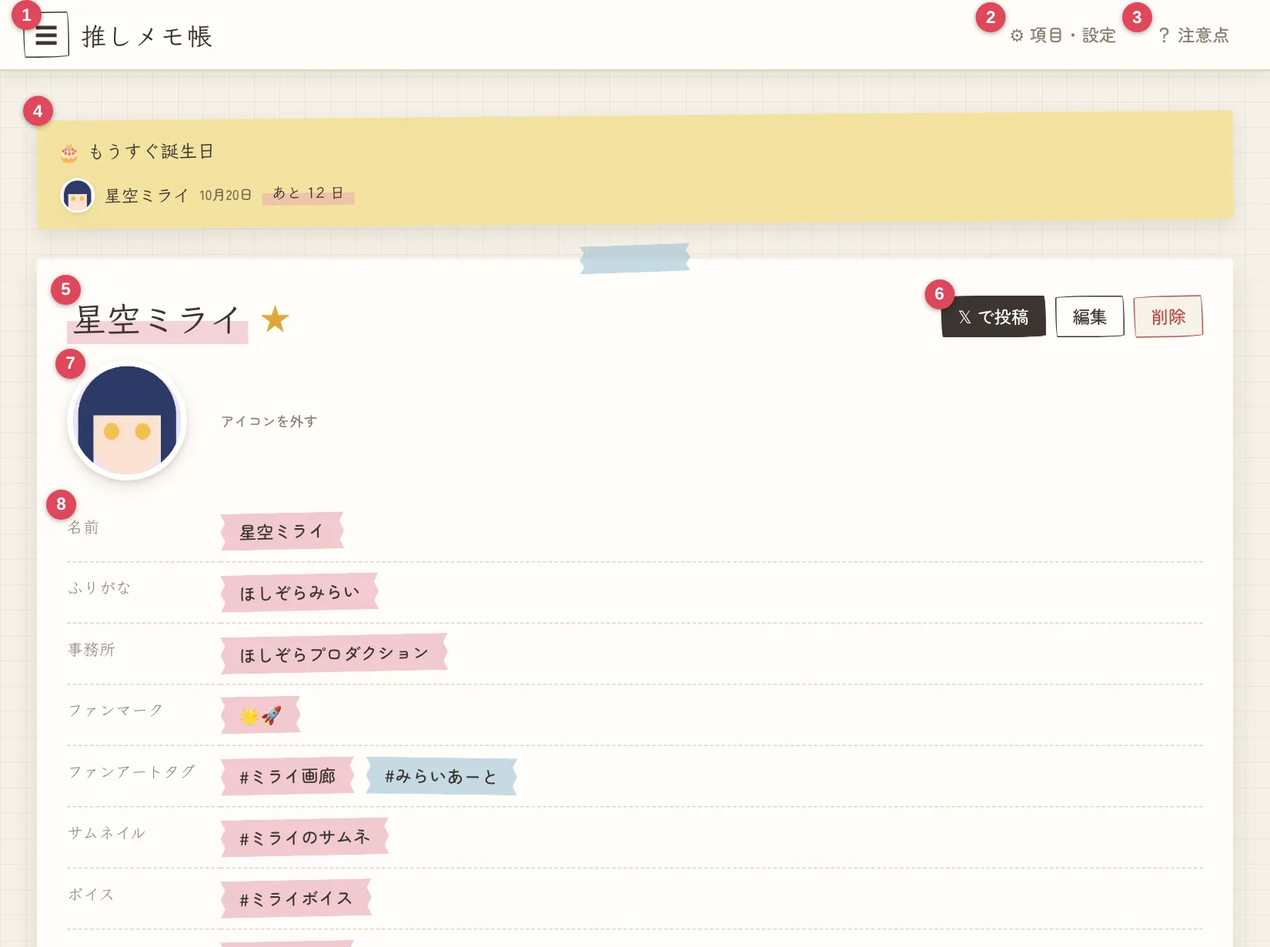
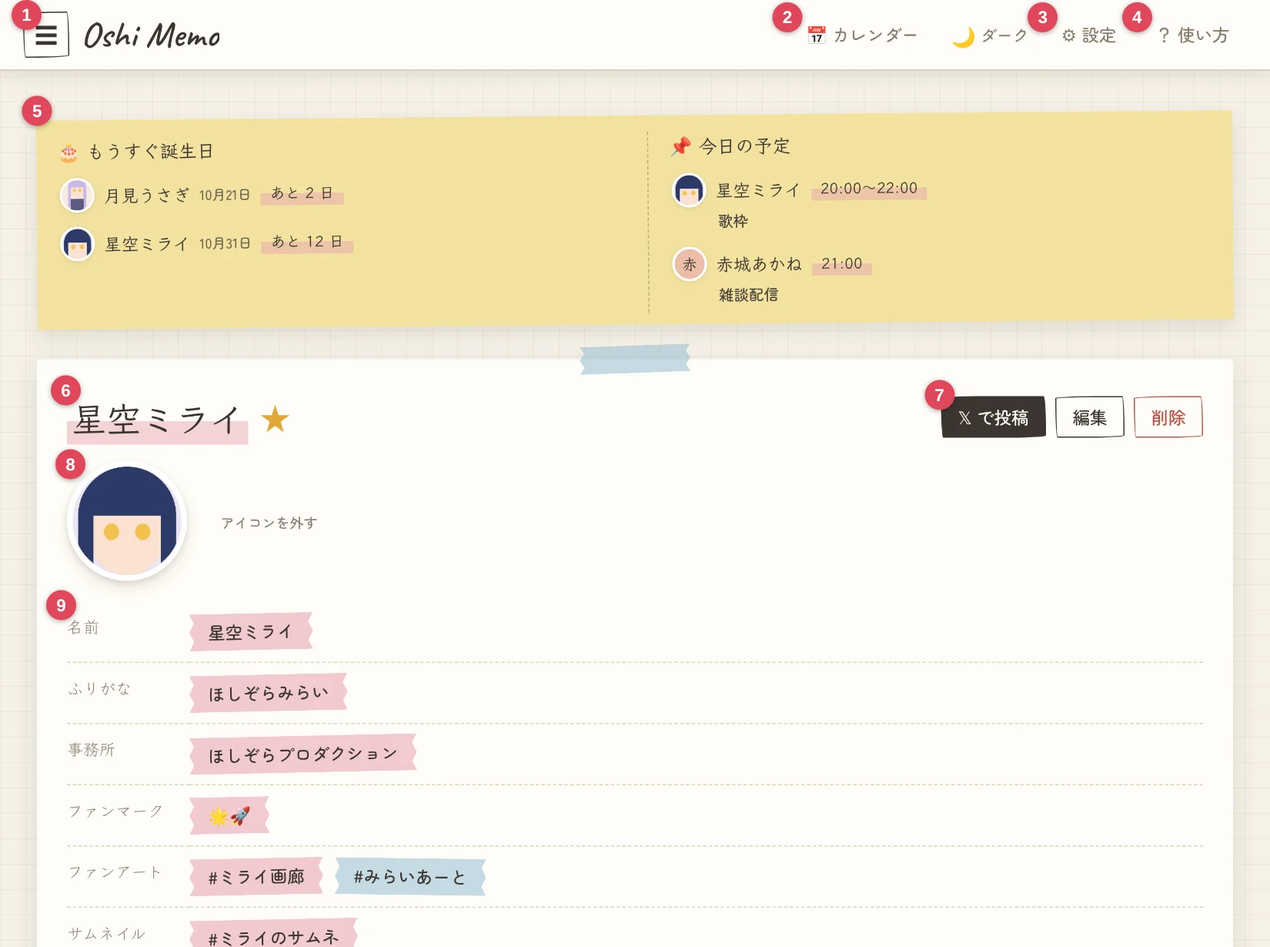
カレンダー: 期間の予定を棒で表示・予定の追加画面でタイトルを上に、マニュアルにカレンダーの章を追加、お知らせの長い名前がつぶれないように
Claude-Session: https://claude.ai/code/session_01TtRufu2XhManK9q9q8tut5

diff --git a/manual.html b/manual.html
@@ -15,7 +15,7 @@
   <script src="theme.js?v=20261019-1"></script>
   <!-- ?v=… は「バージョン番号」。アプリを更新したら数字を変えると、
        スマホなどに残っている古いファイルではなく、新しいファイルが必ず読み込まれる -->
-  <link rel="stylesheet" href="style.css?v=20261019-13">
+  <link rel="stylesheet" href="style.css?v=20261019-17">
   <!-- デザインのファイルが読み込めなくても、画像が画面からはみ出さないようにする最低限の設定 -->
   <style>
     img { max-width: 100%; height: auto; }
@@ -41,7 +41,8 @@
         <li><a href="#oshi">推しの登録・編集</a></li>
         <li><a href="#copy">コピー・メモ・色・誕生日・記念日・リンク・X 投稿</a></li>
         <li><a href="#images">画像</a></li>
-        <li><a href="#settings">項目・設定</a></li>
+        <li><a href="#calendar">カレンダー</a></li>
+        <li><a href="#settings">設定</a></li>
         <li><a href="#backup">バックアップとお引っ越し</a></li>
         <li><a href="#notes">注意点とよくある質問</a></li>
       </ol>
@@ -74,21 +75,22 @@
     <section class="card" id="screen">
       <h2>画面の見かた</h2>
       <p>推しを選ぶと、その推しのページが開きます。番号は下の表と対応しています。</p>
-      <figure><img src="manual/overview.webp" alt="推しのページ全体（番号付き）" loading="lazy"></figure>
+      <figure><img src="manual/overview.webp?v=20261019" alt="推しのページ全体（番号付き）" loading="lazy"></figure>
       <div class="table-wrap">
         <table>
           <tr><th>番号</th><th>名前</th><th>できること</th></tr>
           <tr><td>1</td><td>☰</td><td>推しリストを開く（推しの選択・検索・追加）</td></tr>
-          <tr><td>2</td><td>⚙ 項目・設定</td><td>登録項目の変更、投稿テンプレート、バックアップ（スマホでは「⚙ 設定」）</td></tr>
-          <tr><td>3</td><td>？</td><td>注意点を見る・このマニュアルを開く</td></tr>
-          <tr><td>4</td><td>もうすぐ誕生日</td><td>誕生日が 1 か月以内の推しが出る（押すとその推しのページへ）。カウントダウンにした記念日は 1 か月前から「📅 もうすぐ記念日」、当日は「🎉 今日は記念日」も出ます</td></tr>
-          <tr><td>5</td><td>名前と ★</td><td>☆ を押すとお気に入り（★）</td></tr>
-          <tr><td>6</td><td>𝕏 で投稿・編集・削除</td><td>X に投稿、登録内容の変更、推しの削除</td></tr>
-          <tr><td>7</td><td>アイコン</td><td>押すとアイコン画像を登録・変更</td></tr>
-          <tr><td>8</td><td>登録内容</td><td>マスキングテープ風のボタンを押すとコピー</td></tr>
+          <tr><td>2</td><td>📅 カレンダー</td><td>誕生日・記念日・予定のカレンダーを開く（<a href="#calendar">カレンダー</a>で説明）</td></tr>
+          <tr><td>3</td><td>⚙ 設定</td><td>登録項目の変更、投稿テンプレート、バックアップ</td></tr>
+          <tr><td>4</td><td>？ 使い方</td><td>注意点を見る・このマニュアルを開く</td></tr>
+          <tr><td>5</td><td>お知らせ</td><td>左に誕生日が 1 か月以内の推し（押すとその推しのページへ）。カウントダウンにした記念日は 1 か月前から「📅 もうすぐ記念日」、当日は「🎉 今日は記念日」も出ます。右には「📌 今日の予定」が出ます（押すとカレンダーへ）</td></tr>
+          <tr><td>6</td><td>名前と ★</td><td>☆ を押すとお気に入り（★）</td></tr>
+          <tr><td>7</td><td>𝕏 で投稿・編集・削除</td><td>X に投稿、登録内容の変更、推しの削除</td></tr>
+          <tr><td>8</td><td>アイコン</td><td>押すとアイコン画像を登録・変更</td></tr>
+          <tr><td>9</td><td>登録内容</td><td>マスキングテープ風のボタンを押すとコピー</td></tr>
         </table>
       </div>
-      <p>ページを下に進むと、メモ・色・誕生日・日付の項目（デビュー日など）・リンク、その下に画像があります。スマホでも並びは同じです。</p>
+      <p>ページを下に進むと、メモ・色・誕生日・日付の項目（デビュー日など）・予定・リンク、その下に画像があります。スマホでも並びは同じです。スマホでは上のボタンが 📅・☀/🌙・⚙ 設定・？ のように絵だけになります。</p>
     </section>
 
     <!-- 4. 推しの登録・編集 -->
@@ -155,7 +157,7 @@
       <figure><img src="manual/birthday.webp" alt="もうすぐ誕生日のお知らせ" loading="lazy"></figure>
 
       <h3>デビュー日などの記念日（日付の項目）</h3>
-      <p>「編集」→ デビュー日などの年・月・日を入れます。年は入れなくても登録できます。日付の項目は「⚙ 項目・設定」の「日付の項目」で、推し始めた日・初配信なども自由に追加できます。</p>
+      <p>「編集」→ デビュー日などの年・月・日を入れます。年は入れなくても登録できます。日付の項目は「⚙ 設定」の「日付の項目」で、推し始めた日・初配信なども自由に追加できます。</p>
       <figure><img src="manual/anniv.webp" alt="推しのページの日付の表示（経過と当日のお祝い）" loading="lazy"></figure>
       <ul>
         <li>年を入れると、その日からの経過が「(5年5ヶ月)」のように出ます</li>
@@ -169,7 +171,7 @@
       <p>「編集」→「＋ リンクを追加」で、YouTube や X などの URL をいくつでも登録できます。名前を空にすると「YouTube」「X」などが自動で付きます。推しのページで押すと、そのページが開きます。</p>
 
       <h3>X に投稿</h3>
-      <p>推しのページの「𝕏 で投稿」を押すと、投稿テンプレートの文章が入った X の投稿画面が表示されます。テンプレートが2つ以上あるときはどれで投稿するか選択できます。文章は「⚙ 項目・設定」の投稿テンプレートで変えられます。</p>
+      <p>推しのページの「𝕏 で投稿」を押すと、投稿テンプレートの文章が入った X の投稿画面が表示されます。テンプレートが2つ以上あるときはどれで投稿するか選択できます。文章は「⚙ 設定」の投稿テンプレートで変えられます。</p>
       <ul>
         <li>画像は、X の投稿画面で自分で選んでください</li>
         <li>「「ファンアート」が未登録です」と出たら、その推しのファンアートを登録してください</li>
@@ -213,11 +215,50 @@
       <figure><img src="manual/flip-gray.webp" alt="反転と白黒を ON にしたところ" loading="lazy" class="narrow"></figure>
     </section>
 
-    <!-- 7. 項目・設定 -->
+    <!-- 7. カレンダー -->
+    <section class="card" id="calendar">
+      <h2>カレンダー</h2>
+      <p>上のバーの「📅 カレンダー」（スマホでは 📅）を押すと、推しの誕生日・記念日と、自分で登録した予定をカレンダーで見られます。</p>
+      <figure><img src="manual/calendar.webp?v=20261019" alt="カレンダー（番号付き）" loading="lazy"></figure>
+      <div class="table-wrap">
+        <table>
+          <tr><th>番号</th><th>名前</th><th>できること</th></tr>
+          <tr><td>1</td><td>◀ ▶ ・ 今日</td><td>前の月・次の月へ。「今日」で今月に戻る</td></tr>
+          <tr><td>2</td><td>日付のマス</td><td>推しのアイコンと内容が出ます。アイコンの右上の 🎂 は誕生日、🎉 は記念日（デビュー日など）、📌 は予定。期間の予定は、つながった 1 本の棒で出ます。入りきらない日は「+2」のように数だけ出ます</td></tr>
+          <tr><td>3</td><td>選んだ日の一覧</td><td>日付を押すと、その日の内容が全部出ます。誕生日・記念日を押すとその推しのページへ、予定を押すと編集画面が開きます</td></tr>
+          <tr><td>4</td><td>＋ この日に予定を追加</td><td>選んでいる日の予定を追加</td></tr>
+        </table>
+      </div>
+      <p>今日の日付はピンクの丸で囲まれます。記念日は日付の項目（デビュー日など）から毎年出て、年を入れてあれば「デビュー日 3周年」のように出ます。</p>
+
+      <h3>予定を追加する</h3>
+      <p>グッズの販売日やライブなど、推しの予定を登録できます。</p>
+      <figure><img src="manual/event-add.webp?v=20261019" alt="予定を追加する画面" loading="lazy" class="narrow"></figure>
+      <ul>
+        <li><b>推し</b>：どの推しの予定かを選びます（最後に予定を入れた推しが最初から選ばれています）</li>
+        <li><b>タイトル</b>：予定の名前（例：グッズ販売、ライブ）。必ず入れます</li>
+        <li><b>終日</b>：チェックを入れると時刻の欄が消えて、日付だけの予定になります</li>
+        <li><b>開始</b>：日付と時刻（終日でないときは時刻が必要です）</li>
+        <li><b>終了</b>：入れなくても大丈夫です。終了日を入れると期間の予定（例：10/17〜10/19）になり、カレンダーには期間の分だけ伸びた棒で出ます</li>
+        <li><b>メモ</b>：なくても大丈夫です</li>
+      </ul>
+      <p>終了日が開始日より前のときや、同じ日で終了時刻が開始時刻より前のときは保存できません。登録した予定を押すと編集画面が開き、「削除」で消せます。</p>
+
+      <h3>ほかの画面とのつながり</h3>
+      <ul>
+        <li>カレンダーで誕生日・記念日を押して推しのページに移ったときは、ページの一番上の「← カレンダーに戻る」か、スマホ・ブラウザの戻る操作で、さっきのカレンダーに戻れます</li>
+        <li>推しのページの「予定」に、今日から先の予定が近い順に 3 件まで出ます。押すとその日のカレンダーが開き、「＋ 予定を追加」でその推しの予定を追加できます</li>
+        <li>予定がある日は、画面の上のお知らせの「📌 今日の予定」にも出ます（期間の予定は期間中ずっと出ます）</li>
+        <li>推しを削除すると、その推しの予定も一緒に削除されます</li>
+      </ul>
+      <figure><img src="manual/oshi-events.webp?v=20261019" alt="推しのページの予定" loading="lazy"></figure>
+    </section>
+
+    <!-- 8. 設定 -->
     <section class="card" id="settings">
-      <h2>項目・設定</h2>
-      <p>右上の「⚙ 項目・設定」（スマホでは「⚙ 設定」）で、登録する項目や投稿の文章を自由に変えられます。変えたら一番下の「保存」を押します。</p>
-      <figure><img src="manual/settings.webp" alt="項目・設定の画面（上のほう）" loading="lazy" class="narrow"></figure>
+      <h2>設定</h2>
+      <p>右上の「⚙ 設定」で、登録する項目や投稿の文章を自由に変えられます。変えたら一番下の「保存」を押します。</p>
+      <figure><img src="manual/settings.webp" alt="設定の画面（上のほう）" loading="lazy" class="narrow"></figure>
       <ul>
         <li><b>文字の項目</b>：「＋ 項目を追加」で追加、項目名を書き換えて名前の変更、✕ で削除、↑↓ で並べ替え。一番上の項目が推しリストの「見出し」になります</li>
         <li><b>日付の項目</b>：デビュー日・推し始めた日など。文字の項目と同じように追加・変更・削除できます</li>
@@ -225,7 +266,7 @@
         <li>項目を削除しても、登録してあった内容は消えません。文字の項目は 1 つ以上必要なので、全部は消せません</li>
       </ul>
       <p>下に進むと、投稿テンプレート・バックアップ・保存についてがあります。</p>
-      <figure><img src="manual/settings-bottom.webp" alt="項目・設定の画面（下のほう）" loading="lazy" class="narrow"></figure>
+      <figure><img src="manual/settings-bottom.webp" alt="設定の画面（下のほう）" loading="lazy" class="narrow"></figure>
       <ul>
         <li><b>投稿テンプレート</b>：「𝕏 で投稿」の文章です。<code>{項目名}</code> の部分にその推しの登録内容が入ります。例：<code>{名前}さんのファンアートを描きました！ {ファンアート}</code>。「＋ テンプレートを追加」で何個でも登録でき、↑↓で並べ替え、✕で削除できます</li>
         <li><b>バックアップ</b>：書き出しと読み込み（<a href="#backup">次の章</a>で説明）</li>
@@ -233,7 +274,7 @@
       </ul>
     </section>
 
-    <!-- 8. バックアップとお引っ越し -->
+    <!-- 9. バックアップとお引っ越し -->
     <section class="card" id="backup">
       <h2>バックアップとお引っ越し</h2>
       <p>データは端末の中だけにあるので、ときどきファイルに書き出しておくと安心です。最後のバックアップから 30 日たつと、画面の上にお知らせが出ます。</p>
@@ -241,10 +282,10 @@
         <table>
           <tr><th>ボタン</th><th>中身</th><th>ファイル名の例</th></tr>
           <tr><td>画像も含めて書き出す</td><td>すべて（画像も）。別の端末へのお引っ越しに使える</td><td><code>oshimemo-2026-10-08-full.zip</code></td></tr>
-          <tr><td>文字だけ書き出す</td><td>文字・メモ・色・リンク・誕生日・日付・アイコン・設定（画像はなし、軽い）</td><td><code>oshimemo-2026-10-08.json</code></td></tr>
+          <tr><td>文字だけ書き出す</td><td>文字・メモ・色・リンク・誕生日・日付・カレンダーの予定・アイコン・設定（画像はなし、軽い）</td><td><code>oshimemo-2026-10-08.json</code></td></tr>
         </table>
       </div>
-      <p>どちらのボタンも、「⚙ 項目・設定」の下のほうの「バックアップ」にあります（<a href="#settings">前の章</a>の 2 枚目の画像）。</p>
+      <p>どちらのボタンも、「⚙ 設定」の下のほうの「バックアップ」にあります（<a href="#settings">前の章</a>の 2 枚目の画像）。</p>
 
       <h3>読み込み方</h3>
       <ol>
@@ -269,7 +310,7 @@
       </ol>
     </section>
 
-    <!-- 9. 注意点とよくある質問 -->
+    <!-- 10. 注意点とよくある質問 -->
     <section class="card" id="notes">
       <h2>注意点とよくある質問</h2>
       <h3>注意点</h3>

diff --git a/app.js b/app.js
@@ -2010,6 +2010,38 @@ function moveMonth(diff) {
   renderDetail();
 }
 
+// マスに出す段の数 (これより多い日は「+2」のように数だけ出す)
+const CAL_LANES = 3;
+// 1 週間分のマスに出すものと、出す位置 (s: 始まりの列, e: 終わりの列, lane: 上から何段目)
+//  - 期間の予定は 1 本の棒 (bar) にする。長いものから上の段に置く
+//  - 誕生日・記念日・1 日だけの予定は、その日の列に 1 つずつ置く
+function weekItems(days) {
+  const keys = days.map(ymd), out = [];
+  for (const ev of state.events) {
+    if (!ev.endDate) continue;
+    const s = keys.findIndex((k) => eventCovers(ev, k));
+    if (s < 0) continue;
+    let e = s;
+    while (e + 1 < 7 && eventCovers(ev, keys[e + 1])) e++;
+    out.push({ bar: true, kind: "event", ev, v: state.vtubers.find((x) => x.id === ev.vtuberId), text: ev.title, s, e,
+      startsHere: ev.date === keys[s], endsHere: eventEnd(ev) === keys[e] });
+  }
+  // (期間の予定どうしは開始時刻の順にそろえておく)
+  out.sort((a, b) => (b.e - b.s) - (a.e - a.s) || a.s - b.s || a.ev.date.localeCompare(b.ev.date));
+  days.forEach((d, i) => calendarItems(d).filter((x) => !(x.kind === "event" && x.ev.endDate))
+    .forEach((x) => out.push({ ...x, s: i, e: i })));
+  // 空いている一番上の段に入れていく
+  const used = [];
+  for (const it of out) {
+    let l = 0;
+    while (used[l] && used[l].slice(it.s, it.e + 1).some(Boolean)) l++;
+    used[l] = used[l] || Array(7).fill(false);
+    for (let c = it.s; c <= it.e; c++) used[l][c] = true;
+    it.lane = l;
+  }
+  return out;
+}
+
 function renderCalendar() {
   const main = $("#detail");
   const { y, m, sel } = state.cal;
@@ -2017,22 +2049,36 @@ function renderCalendar() {
   const start = new Date(y, m - 1, 1 - first.getDay()); // カレンダーの左上 (前の月の日曜日のこともある)
   const today = ymd(todayDate());
   // 日付のマス (最大 6 週。6 週目が全部次の月なら描かない)
-  let cells = WEEK.map((w, i) => `<div class="cal-week${i === 0 ? " sun" : i === 6 ? " sat" : ""}">${w}</div>`).join("");
-  for (let i = 0; i < 42; i++) {
-    const d = new Date(y, m - 1, 1 - first.getDay() + i);
-    if (i === 35 && d.getMonth() !== m - 1) break;
-    const key = ymd(d), items = calendarItems(d);
-    // マスの中: 推しのアイコン (右上に 🎂🎉📌) + 内容。2 件まで出して、残りは「+2」のように数だけ
-    const marks = items.slice(0, 2).map((x) =>
-      `<span class="cal-ev">` +
-      (x.v ? `<span class="cal-av">${avatarHtml(x.v, "cal-avatar")}<span class="cal-badge">${CAL_ICON[x.kind]}</span></span>`
-           : `<span class="cal-av"><span class="cal-avatar no-icon">?</span><span class="cal-badge">${CAL_ICON[x.kind]}</span></span>`) +
-      `<span class="cal-ev-text">${esc(x.text)}</span></span>`
-    ).join("") + (items.length > 2 ? `<span class="cal-more">+${items.length - 2}</span>` : "");
-    const cls = ["cal-day", d.getMonth() !== m - 1 && "other", key === today && "today", key === sel && "sel",
-      d.getDay() === 0 && "sun", d.getDay() === 6 && "sat"].filter(Boolean).join(" ");
-    cells += `<button type="button" class="${cls}" data-day="${key}" aria-label="${d.getMonth() + 1}月${d.getDate()}日${items.length ? ` (${items.length}件)` : ""}">` +
-      `<span class="cal-num">${d.getDate()}</span><span class="cal-marks">${marks}</span></button>`;
+  //  1 週ごとに 1 行。期間の予定は、その週の中で 1 本の棒にしてつなげて出す
+  let cells = `<div class="cal-head-row">` +
+    WEEK.map((w, i) => `<div class="cal-week${i === 0 ? " sun" : i === 6 ? " sat" : ""}">${w}</div>`).join("") + `</div>`;
+  for (let w = 0; w < 6; w++) {
+    const days = Array.from({ length: 7 }, (_, i) => new Date(y, m - 1, 1 - first.getDay() + w * 7 + i));
+    if (w === 5 && days[0].getMonth() !== m - 1) break;
+    const keys = days.map(ymd);
+    const items = weekItems(days);
+    let row = days.map((d, i) => {
+      const key = keys[i], count = calendarItems(d).length;
+      const cls = ["cal-day", d.getMonth() !== m - 1 && "other", key === today && "today", key === sel && "sel",
+        d.getDay() === 0 && "sun", d.getDay() === 6 && "sat"].filter(Boolean).join(" ");
+      return `<button type="button" class="${cls}" style="grid-column:${i + 1}" data-day="${key}" aria-label="${d.getMonth() + 1}月${d.getDate()}日${count ? ` (${count}件)` : ""}">` +
+        `<span class="cal-num">${d.getDate()}</span></button>`;
+    }).join("");
+    // マスの中: 推しのアイコン (右上に 🎂🎉📌) + 内容。上から CAL_LANES 段まで出して、入りきらない分は「+2」のように数だけ
+    const av = (x) => `<span class="cal-av">${x.v ? avatarHtml(x.v, "cal-avatar") : `<span class="cal-avatar no-icon">?</span>`}<span class="cal-badge">${CAL_ICON[x.kind]}</span></span>`;
+    for (const x of items.filter((x) => x.lane < CAL_LANES)) {
+      const pos = `grid-column:${x.s + 1} / ${x.e + 2};grid-row:${x.lane + 2}`;
+      const covers = keys.slice(x.s, x.e + 1).join(" "); // テスト・読み上げ用: この印が出ている日
+      row += x.bar
+        // 期間の予定: 棒 (週をまたぐときは、続きの側の端を四角にする)
+        ? `<div class="cal-bar${x.startsHere ? " start" : ""}${x.endsHere ? " end" : ""}" style="${pos}" data-covers="${covers}">${av(x)}<span class="cal-ev-text">${esc(x.text)}</span></div>`
+        : `<div class="cal-ev" style="${pos}" data-covers="${covers}">${av(x)}<span class="cal-ev-text">${esc(x.text)}</span></div>`;
+    }
+    days.forEach((d, i) => {
+      const hidden = items.filter((x) => x.lane >= CAL_LANES && x.s <= i && i <= x.e).length;
+      if (hidden) row += `<span class="cal-more" style="grid-column:${i + 1};grid-row:${CAL_LANES + 2}">+${hidden}</span>`;
+    });
+    cells += `<div class="cal-row">${row}</div>`;
   }
   // 選んだ日の内容
   const sd = fromYmd(sel);
@@ -2117,7 +2163,7 @@ $("#dlg-event").addEventListener("close", () => {
     title: $("#ev-title").value.trim().slice(0, 100),
     memo: $("#ev-memo").value.trim().slice(0, 1000),
   };
-  if (!isYmd(ev.date) || !ev.title) return toast("日付と内容を入れてください。保存しませんでした");
+  if (!isYmd(ev.date) || !ev.title) return toast("タイトルと日付を入れてください。保存しませんでした");
   Object.assign(ev, cleanEvents([ev])[0]); // 終日なら時刻を消す・終了日が開始日と同じなら消す など、形をそろえる
   state.lastEventVtuber = ev.vtuberId;
   // 保存した日を選んだ状態にする (別の月の日付にしたときは、その月に移る)

diff --git a/style.css b/style.css
@@ -730,10 +730,11 @@ dialog label.countdown-check {
 .bday-banner.two .banner-events { border-left: 1.5px dashed rgba(59, 53, 48, .3); padding-left: 18px; }
 .bday-banner .banner-events ul { flex-direction: column; }
 .bday-banner .ev-title { opacity: .9; font-size: 13px; }
-/* 今日の予定: 名前と時刻の行の下に内容を出す (長い名前・内容でもつぶれないように) */
-.bday-banner .banner-events .bday-item { flex-wrap: wrap; text-align: left; }
+/* お知らせの 1 行: 長い名前でもつぶれないように、入りきらないときは日付などを次の行に回す */
+.bday-banner .bday-item { flex-wrap: wrap; text-align: left; row-gap: 2px; }
+.bday-banner .bday-name { min-width: 0; max-width: calc(100% - 40px); overflow-wrap: anywhere; } /* アイコンの横で折り返す */
+/* 今日の予定: 名前と時刻の行の下に内容を出す */
 .bday-banner .banner-events .ev-title { flex-basis: 100%; padding-left: 40px; overflow-wrap: anywhere; }
-.bday-banner .banner-events .bday-name { min-width: 0; overflow-wrap: anywhere; }
 @media (max-width: 600px) {
   .bday-banner.two { grid-template-columns: 1fr; }
   .bday-banner.two .banner-events { border-left: none; padding-left: 0; border-top: 1.5px dashed rgba(59, 53, 48, .3); padding-top: 8px; margin-top: 8px; }
@@ -1012,7 +1013,26 @@ dialog label.tpl-label-text { display: block; margin: 10px 0 0; }
 .cal-head h2 { margin: 0; min-width: 7.5em; text-align: center; font-family: var(--hand); }
 .cal-today-btn { margin-left: auto; font-size: 13px; padding: 2px 12px; }
 /* 7 列のマス目 */
-.cal-grid { display: grid; grid-template-columns: repeat(7, minmax(0, 1fr)); gap: 2px; }
+.cal-grid { display: flex; flex-direction: column; gap: 2px; }
+/* 曜日の見出しの行 と 1 週間の行 (7 列。1 段目が日付、2〜4 段目が予定、5 段目が「+2」) */
+.cal-head-row, .cal-row { display: grid; grid-template-columns: repeat(7, minmax(0, 1fr)); column-gap: 2px; }
+.cal-row { grid-template-rows: 28px auto auto auto minmax(14px, 1fr); min-height: 92px; }
+.cal-row > .cal-day { grid-row: 1 / -1; }       /* マスは行の高さいっぱい (押すとその日を選ぶ) */
+/* マスの上に重ねる予定 (押すと下のマスを押したことにする) */
+.cal-row > .cal-ev, .cal-row > .cal-bar, .cal-row > .cal-more { position: relative; z-index: 1; pointer-events: none; min-width: 0; }
+.cal-row > .cal-ev { margin: 2px 4px; }
+/* 期間の予定の棒 */
+.cal-bar {
+  display: flex; align-items: center; gap: 6px;
+  margin: 2px 0; padding: 1px 6px 1px 4px;
+  background: var(--tape-pink);
+  color: var(--ink);
+  height: 26px;
+}
+.cal-bar.start { margin-left: 4px; border-top-left-radius: 13px; border-bottom-left-radius: 13px; }
+.cal-bar.end { margin-right: 4px; border-top-right-radius: 6px; border-bottom-right-radius: 6px; }
+.cal-bar .cal-avatar { width: 20px; height: 20px; }
+.cal-bar .cal-badge { font-size: 10px; top: -4px; right: -6px; }
 .cal-marks { display: flex; flex-direction: column; gap: 4px; min-width: 0; }
 .cal-week { text-align: center; font-size: 12px; color: var(--muted); padding: 2px 0 4px; }
 .cal-week.sun, .cal-day.sun .cal-num { color: #d0556a; }
@@ -1022,7 +1042,6 @@ dialog label.tpl-label-text { display: block; margin: 10px 0 0; }
   flex-direction: column;
   align-items: stretch;
   gap: 3px;
-  min-height: 92px;
   padding: 4px 4px 3px;
   border: 1px solid transparent;
   border-radius: 4px;
@@ -1065,7 +1084,7 @@ dialog label.tpl-label-text { display: block; margin: 10px 0 0; }
   white-space: nowrap;
   text-overflow: ellipsis;  /* 入りきらない内容は「…」 */
 }
-.cal-more { font-size: 11px; color: var(--muted); text-align: right; }
+.cal-more { font-size: 11px; color: var(--muted); text-align: center; align-self: end; }
 .cal-legend { margin: 10px 0 0; }
 /* 下の一覧 */
 .cal-list h3 { margin-top: 0; font-family: var(--hand); }
@@ -1093,8 +1112,15 @@ dialog label.tpl-label-text { display: block; margin: 10px 0 0; }
   .cal-head { gap: 4px; }
   .cal-head h2 { font-size: 19px; min-width: 6.5em; }
   /* スマホ: アイコンの下に内容を小さく出す */
-  .cal-grid { gap: 1px; }
-  .cal-day { min-height: 76px; padding: 3px 1px 2px; gap: 2px; }
+  .cal-head-row, .cal-row { column-gap: 1px; }
+  .cal-row { grid-template-rows: 26px auto auto auto minmax(12px, 1fr); min-height: 76px; }
+  .cal-row > .cal-ev { margin: 1px 1px; }
+  .cal-day { padding: 3px 1px 2px; gap: 2px; }
+  .cal-bar { height: 20px; gap: 3px; padding: 0 3px 0 2px; }
+  .cal-bar .cal-avatar { width: 16px; height: 16px; font-size: 9px; }
+  .cal-bar .cal-ev-text { font-size: 9px; }
+  .cal-bar.start { margin-left: 2px; }
+  .cal-bar.end { margin-right: 2px; }
   .cal-num { font-size: 13px; }
   .cal-ev { flex-direction: column; gap: 0; }
   .cal-avatar { width: 22px; height: 22px; }

diff --git a/index.html b/index.html
@@ -20,7 +20,7 @@
   <script src="theme.js?v=20261019-1"></script>
   <!-- ?v=… は「バージョン番号」。アプリを更新したら数字を変えると、
        スマホなどに残っている古いファイルではなく、新しいファイルが必ず読み込まれる -->
-  <link rel="stylesheet" href="style.css?v=20261019-13">
+  <link rel="stylesheet" href="style.css?v=20261019-17">
 </head>
 <body>
   <!-- 読み込み中の表示 -->
@@ -120,6 +120,7 @@
       <h2 id="event-title" tabindex="-1" autofocus>予定を追加</h2>
       <div class="ev-form">
         <label>推し<select id="ev-vtuber" required></select></label>
+        <label>タイトル<input id="ev-title" type="text" maxlength="100" required pattern=".*\S.*" placeholder="例: 誕生日配信" autocomplete="off"></label>
         <label class="countdown-check ev-allday"><input type="checkbox" id="ev-allday"> 終日</label>
         <div class="ev-label">開始
           <span class="ev-dt"><input id="ev-date" type="date" required aria-label="開始日"><input id="ev-time" class="ev-time-input" type="time" aria-label="開始時刻"></span>
@@ -127,7 +128,6 @@
         <div class="ev-label">終了 <small>(なくてもOK)</small>
           <span class="ev-dt"><input id="ev-end-date" type="date" aria-label="終了日"><input id="ev-end-time" class="ev-time-input" type="time" aria-label="終了時刻"></span>
         </div>
-        <label>内容<input id="ev-title" type="text" maxlength="100" required pattern=".*\S.*" placeholder="例: 誕生日配信" autocomplete="off"></label>
         <label>メモ <small>(なくてもOK)</small><textarea id="ev-memo" rows="2" maxlength="1000"></textarea></label>
       </div>
       <div class="dlg-buttons">
@@ -232,6 +232,6 @@
   <!-- type="module" にすると import が使える -->
   <!-- zip の書き出し・読み込み用ライブラリ (JSZip, MIT ライセンス) -->
   <script src="lib/jszip.min.js"></script>
-  <script type="module" src="app.js?v=20261019-8"></script>
+  <script type="module" src="app.js?v=20261019-10"></script>
 </body>
 </html>
